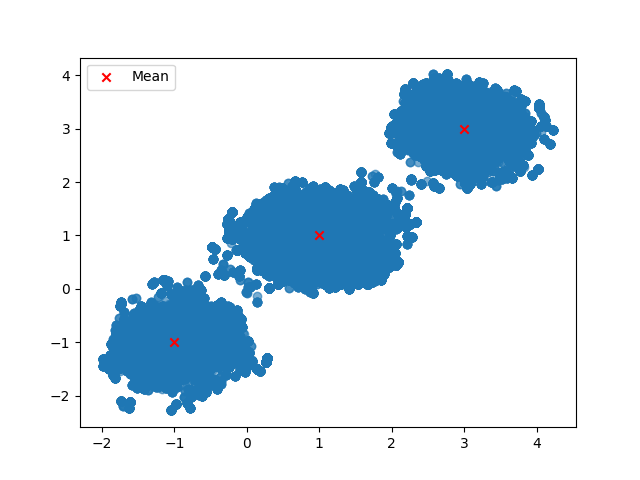
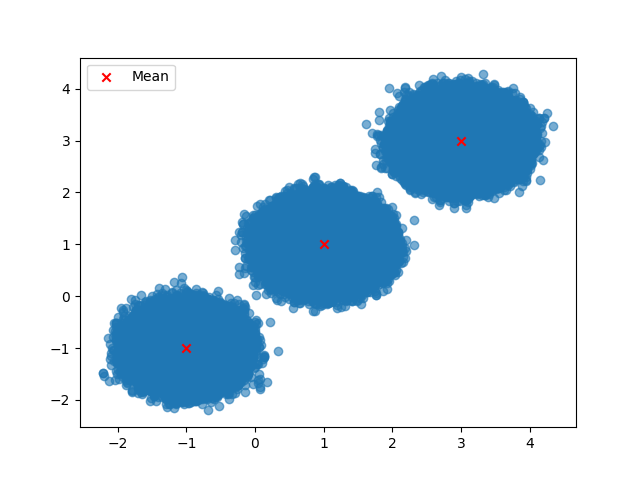
update

diff --git a/examples/gaussian_mixture.py b/examples/gaussian_mixture.py
@@ -21,11 +21,10 @@ potential = GaussianMixturePotential(means=means, sigma=0.28)
 config = HMCConfig(
     initial_step_size=0.2,
     max_path_len=2,
-    iterations=100_000,
-    initial_precm=0.5 * jnp.eye(dim),
+    iterations=400_000,
+    initial_precm=jnp.eye(dim),
     key=key,
 )
-
 
 s = time.monotonic_ns()
 momenta, samples = hmc(
@@ -42,7 +41,7 @@ samples = samples[warmup:]
 samples = samples.reshape(-1, 2)
 # We then plot the samples
 
-plt.scatter(samples[warmup:, 0], samples[warmup:, 1], alpha=0.6)
+plt.scatter(samples[:, 0], samples[:, 1], alpha=0.6)
 plt.scatter(means[:, 0], means[:, 1], color="red", marker="x", label="Mean")
 plt.legend()
 plt.savefig("examples/gaussian_mixture_samples.png")
